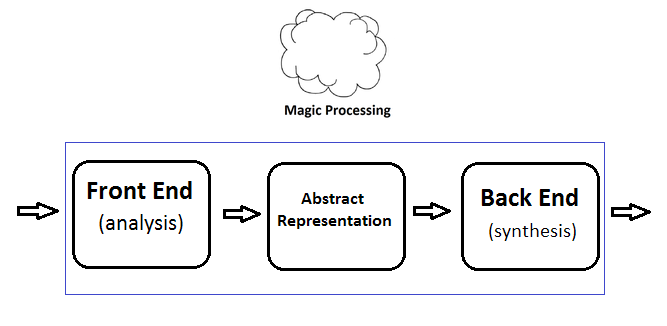
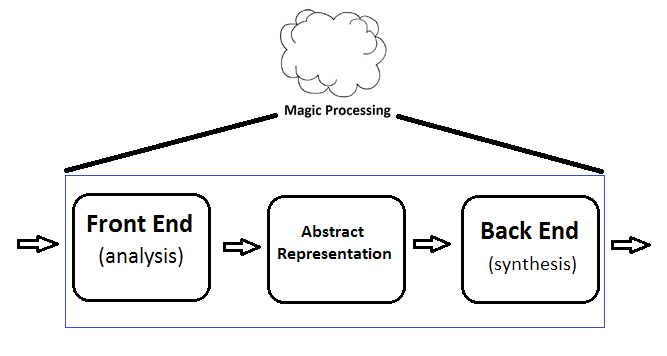
Added second image of compiler process.

diff --git a/README.md b/README.md
@@ -64,6 +64,14 @@ requirements. In spite of this, we will try to keep as many options open as
 possible, even if this means we must compromise. In general, clarity and
 simplicity will be favored over complexity and performance.
 
+This project will stay pretty focused on compilers, however much of this
+material will be applicable to other sorts of translators. Now, our first
+diagram had entirely too much magic cloud going on for comfort. Let's see
+what happens when the TV forensics guy clicks the enhance image on that fuzzy
+cloud:
+
+![A Translator](./images/Overview_Two.png)
+
 WIP
 
 ## Installation
